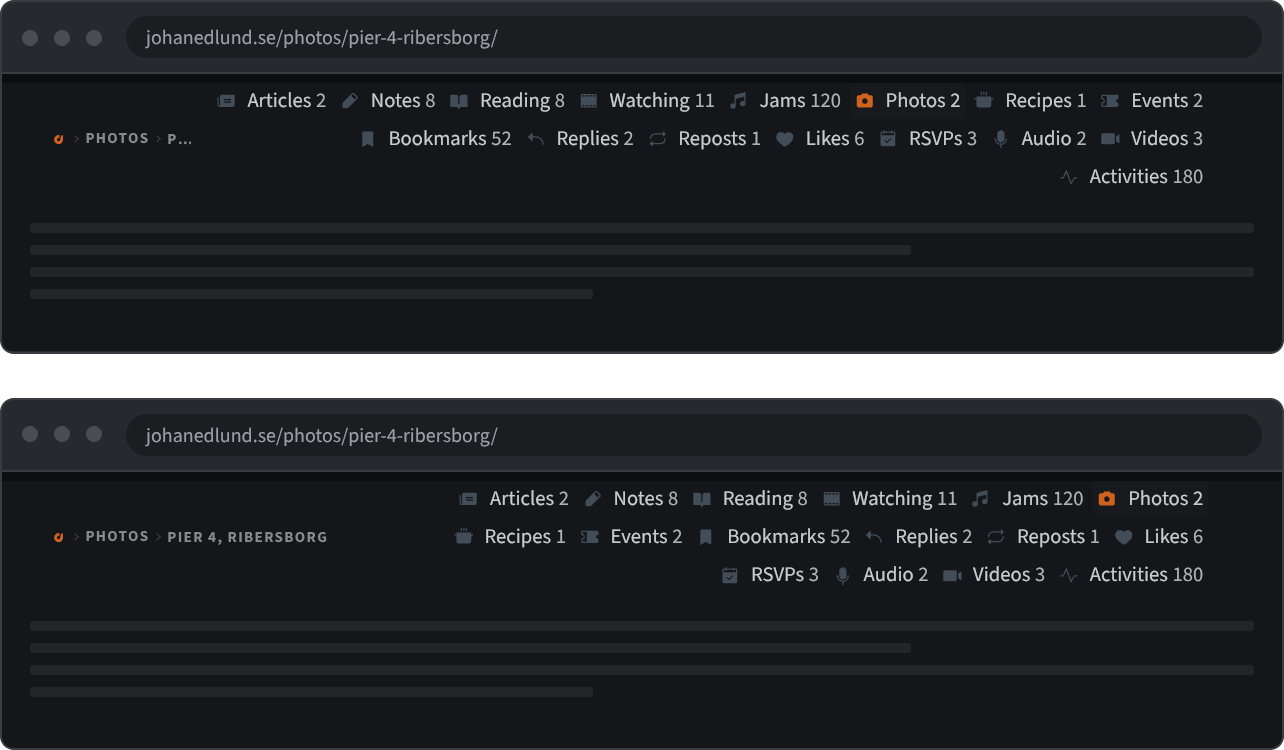
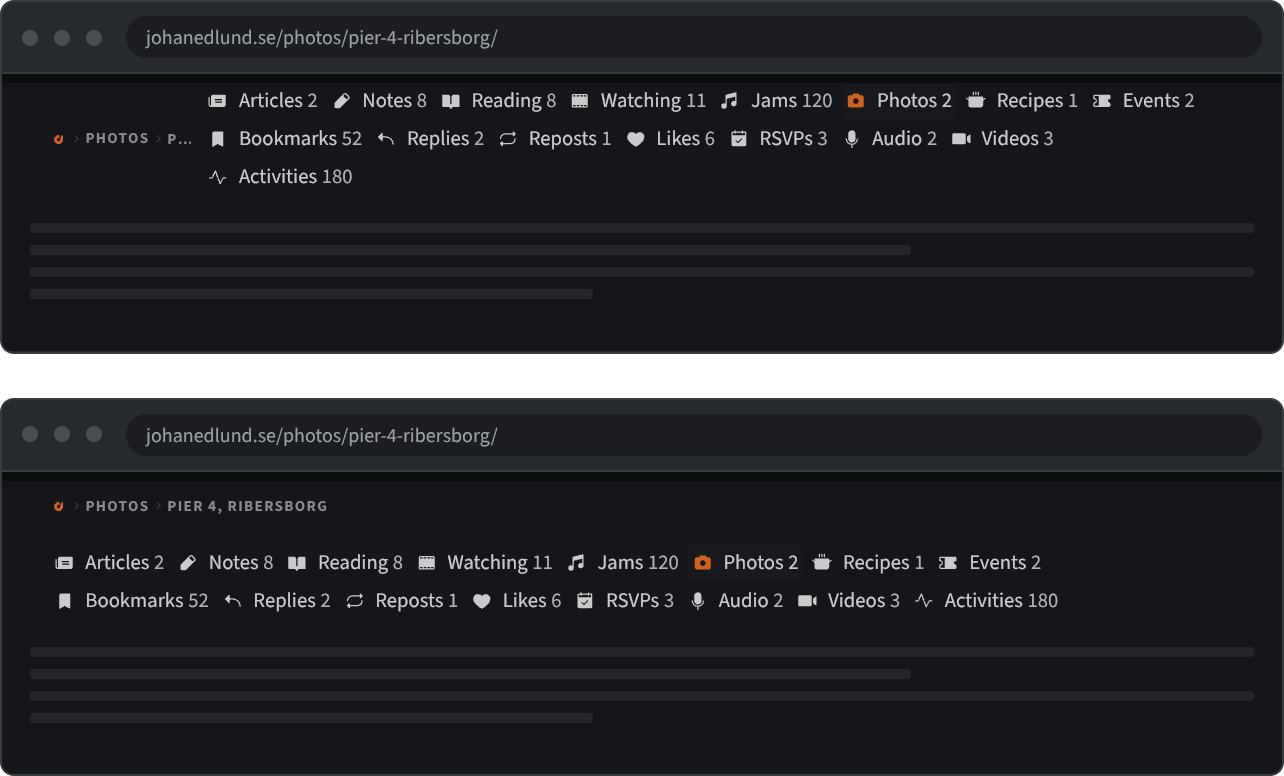
No-JS menu: the post-type pills sit on their own line under the breadcrumb, left-aligned

diff --git a/src/assets/css/local/main-nav.css b/src/assets/css/local/main-nav.css
@@ -244,19 +244,19 @@ A "Menu ⌄" button drops a two-column, table-of-contents-style panel of every p
 }
 
 /* ---------- no-JS fallback ----------
-   No button is injected, so the <ul> is the first child of .mainnav. Show it as a static row of wrapping pills — what the nav-accessible pattern recommends. The two-column panel needs width the header row can't give it: it collapsed to one 16-row column.
-   The row is built around a small MENU trigger — it never wraps, and it pins the controls cluster (breadcrumb.css). Both pins have to relax here, or the pill row eats the row and the breadcrumb crushes to "NO".
-   `:has(.mainnav)` is load-bearing: during the soft launch header.njk omits the nav entirely in production, which also means no .menu-toggle. Without this guard the cluster grew to 22rem around nothing but the theme toggle, stranding the moon in the middle of the row instead of pinned right. */
+   No button is injected, so the <ul> is the first child of .mainnav: a static row of wrapping pills, the nav-accessible pattern's fallback. It takes a row of its own under the breadcrumb, left-aligned, so the two never share a line.
+   The header row is built around a small MENU trigger — it never wraps, and it pins the controls cluster (breadcrumb.css). Both pins have to relax here, or the pill row eats the row and the breadcrumb crushes to "NO".
+   `:has(.mainnav)` is load-bearing: during the soft launch header.njk omits the nav entirely in production, which also means no .menu-toggle. Without this guard the cluster would take a whole line around nothing but the theme toggle. */
 .site-header .repel:has(.mainnav):not(:has(.menu-toggle)) {
   /* Relaxes the pin breadcrumb.css sets, through repel's own knob. Outweighs .breadcrumb-bar, so the wrap wins either way. */
   --repel-wrap: wrap;
 }
 
 .site-header .repel > .cluster:has(.mainnav):not(:has(.menu-toggle)) {
-  /* Basis 22rem, not `auto`: the pill row's max-content is ~2000px, so an auto basis makes the cluster the biggest thing on the row and crushes the breadcrumb beside it. --cluster-wrap keeps the theme toggle alongside the pills. `flex`/`min-inline-size` stay plain declarations — they size this element as a flex ITEM of the row, not something cluster owns. */
+  /* A 100% basis puts the pills on their own line under the breadcrumb. `flex`/`min-inline-size` are plain declarations: they size this element as a flex ITEM of the row, not something cluster owns. */
   --cluster-wrap: nowrap;
 
-  flex: 1 1 22rem;
+  flex: 1 1 100%;
   min-inline-size: 0;
 }
 
@@ -267,7 +267,7 @@ A "Menu ⌄" button drops a two-column, table-of-contents-style panel of every p
 .mainnav > .megamenu:first-child {
   /* The <ul> carries `cluster`, so the pill row IS the composition — only its knobs are set here. (The panel rule below overrides it with `display: grid` in the enhanced state.) */
   --gutter: var(--space-3xs) var(--space-2xs);
-  --cluster-horizontal-alignment: flex-end;
+  --cluster-horizontal-alignment: flex-start;
   /* Re-assert wrapping: the ancestor rule below sets --cluster-wrap: nowrap and custom properties inherit. */
   --cluster-wrap: wrap;
 

diff --git a/src/wiki/The main menu.md b/src/wiki/The main menu.md
@@ -1,7 +1,7 @@
 ---
 description: "A disclosure menu built so the fallback is the base layer: the button is injected from a template, and the CSS detects its absence structurally rather than asking whether scripts can run."
 date: 2026-08-03
-updated: 2026-10-27
+updated: 2026-11-13
 ---
 
 A site menu that collapses behind a button is one of the few interface patterns that genuinely needs JavaScript, which makes it a standing test of whether a site's enhancement layers are real. The robust arrangement, set out in [Manuel Matuzović's *Building the main navigation for a website*](https://web.dev/articles/website-navigation), is to build the list first and add the button last: plain `<a>` elements, wrapped in `<ul role="list">`, inside a labeled `<nav>` landmark, with the toggle **injected by script from a `<template>`**. Nothing hides the list except a button that, by construction, only exists when the script that operates it has run.
@@ -59,11 +59,11 @@ For one day the width came from the dev grid instead: five columns wide, snapped
 
 ### The no-JS layout
 
-Without the button the panel keeps its `<ul>` but becomes a right-aligned row of wrapping pills in normal flow — three rows at 1280px, six at 375px. The leader dots are dropped (an empty flexible spacer only reads as a leader when every row shares a width) and the padding tightens.
+Without the button the panel keeps its `<ul>` but becomes a row of wrapping pills in normal flow, on a line of its own under the breadcrumb and left-aligned with it — two rows at 1280px, six at 375px. Until 2026-11-13 the pills were right-aligned beside the breadcrumb on a wide screen, which left them starting at a different point on every row. The leader dots are dropped (an empty flexible spacer only reads as a leader when every row shares a width) and the padding tightens.
 
 <figure class="feature" data-wiki-mockup>
-  <img eleventy:formats="webp,png" src="/assets/images/wiki/main-menu-no-js.png" alt="Two browser windows side by side, both without JavaScript. At 1280 pixels the post-type links form a right-aligned row of pills wrapping onto three lines beside the breadcrumb. At 375 pixels the same links wrap onto six lines under the breadcrumb." width="1724" height="446">
-  <figcaption>The fallback without JavaScript at both ends: 1280px on the left, in two rows, and 375px on the right, in six. No button, so the panel is a plain row of pills in normal flow — right-aligned, no leader dots, and wrapping to fit.</figcaption>
+  <img eleventy:formats="webp,png" src="/assets/images/wiki/main-menu-no-js.png" alt="Two browser windows side by side, both without JavaScript. In both, the post-type links sit under the breadcrumb, left-aligned with it: two lines of pills at 1280 pixels, six at 375 pixels." width="1724" height="446">
+  <figcaption>The fallback without JavaScript at both ends: 1280px on the left, in two rows, and 375px on the right, in six. No button, so the panel is a plain row of pills in normal flow under the breadcrumb — left-aligned, no leader dots, and wrapping to fit.</figcaption>
 </figure>
 
 Before that, the panel kept its dropdown layout: two columns of `minmax(15rem, 1fr)` inside a header row with nowhere near 30rem to give, so `auto-fit` collapsed to one column and the header became a sixteen-row list that pushed the page content most of a screen down.
@@ -81,21 +81,21 @@ The header row is a `.repel` holding the [[Breadcrumb|breadcrumb]] and a cluster
 
 .site-header .repel > .cluster:has(.mainnav):not(:has(.menu-toggle)) {
   --cluster-wrap: nowrap;
-  flex: 1 1 22rem;
+  flex: 1 1 100%;
   min-inline-size: 0;
 }
 ```
 
-A fixed basis makes the row grow into what the trail leaves on a wide screen and wrap onto a separate full-width line on a narrow one. The trail's truncation is the `-webkit-line-clamp` described in [[Text wrapping]].
+A basis of 100% sends the pill row to a line of its own at every width, so it never competes with the trail for space. Until 13 November 2026 the basis was 22rem, which let the row grow into what the trail left on a wide screen and wrap onto its own line only on a narrow one. The trail's truncation is the `-webkit-line-clamp` described in [[Text wrapping]].
 
 <figure class="popout" data-wiki-mockup>
-  <img eleventy:formats="webp,png" src="/assets/images/wiki/main-menu-breadcrumb-crush.png" alt="Two browser windows stacked, identical except for the header row's flex declarations. In the upper one the breadcrumb reads Photos then a single truncated letter; in the lower one it reads Photos then Pier 4, Ribersborg in full." width="1284" height="750">
-  <figcaption>The same markup, the same width (1280px), no JavaScript. Above, the cluster's pin relaxed to <code>flex: 1 1 auto</code> with the row still pinned to one line; below, the shipped pair. The trail is what pays for it.</figcaption>
+  <img eleventy:formats="webp,png" src="/assets/images/wiki/main-menu-breadcrumb-crush.png" alt="Two browser windows stacked, identical except for the header row's flex declarations. In the upper one the breadcrumb reads Photos then a single truncated letter; in the lower one it reads Photos then Pier 4, Ribersborg in full, with the pills on a line of their own below it." width="1284" height="776">
+  <figcaption>The same markup, the same width (1280px), no JavaScript. Above, the cluster's pin relaxed to <code>flex: 1 1 auto</code> with the row still pinned to one line; below, as shipped, the pills on a line of their own. The trail is what pays for it.</figcaption>
 </figure>
 
 The two wrap values go through the compositions' custom properties rather than declaring `flex-wrap` from outside; `flex` and `min-inline-size` stay plain declarations because they size the element as an item of the row, not the cluster's internals. That distinction, and the two traps in converting a declaration to a knob, are in [[Configuring a layout composition]] — which is also where the no-JS pill row's `.cluster` class comes from, since this page's fallback row used to rebuild that composition by hand.
 
-The `:has(.mainnav)` guard is load-bearing: during the soft launch the header omits the nav entirely in production, which also means no button, and without it the cluster grew to 22rem around nothing but the theme toggle.
+The `:has(.mainnav)` guard is load-bearing: during the soft launch the header omits the nav entirely in production, which also means no button, and without it the cluster would take a whole line around nothing but the theme toggle.
 
 ### Contrast is a property of the pairing, not the color
 
